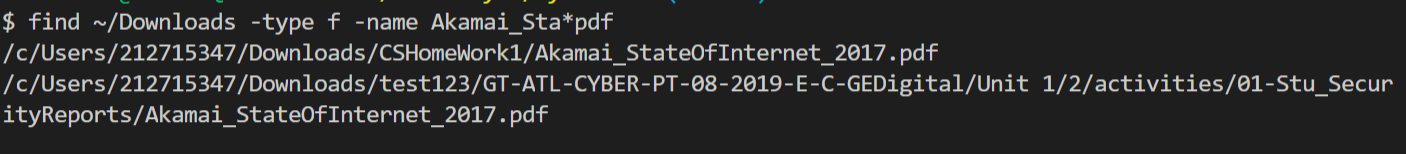
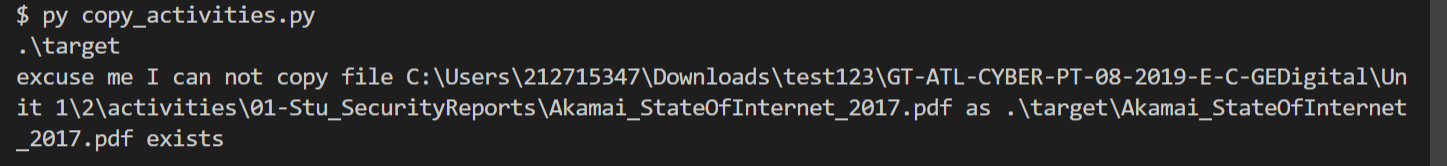
update

diff --git a/copy_activities.py b/copy_activities.py
@@ -30,7 +30,7 @@ for dirName, subdirList, fileList in os.walk(rootDir):
         if not os.path.exists(targetFile):
             copyfile(sourceFile, targetFile)
         else:
-            print(f'excuse me I can not copy file {targetFile} exists')
+            print(f'excuse me I can not copy file {sourceFile} as {targetFile} exists')
             moveOn = False
             break
     else:

diff --git a/README.md b/README.md
@@ -36,7 +36,7 @@ for _**`housekeeping`**_ purpose I have taken leiberty to copy the files to a fo
 **Note**: This isn't just a challenge to complete for the sake of it, this is a practical script you can run to move any downloaded files from class into your class notes directories.
 
 
-below picture depicts that if a _**targetfile**_ exists copy process stops totally. IN this case the file _**`Akamai_StateOfInternet_2017.pdf`**_ exists more than once in the source directory structure hence it breaks from the loop
+below picture depicts that if a _**targetfile**_ exists copy process stops totally. In this case the file _**`Akamai_StateOfInternet_2017.pdf`**_ exists more than once in the source directory structure hence it breaks from the loop
 
 ![stop if the file exists](copy_activities.png)
 ---
